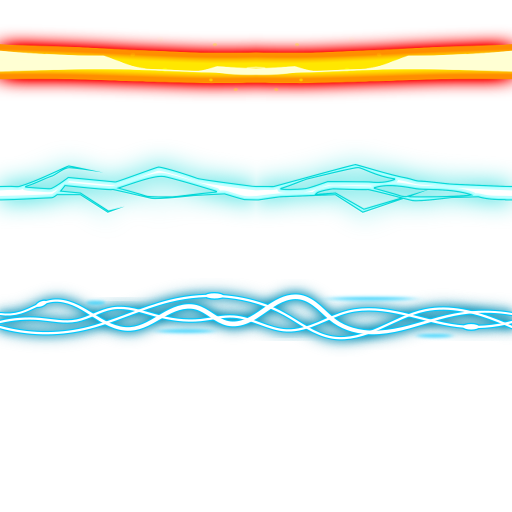
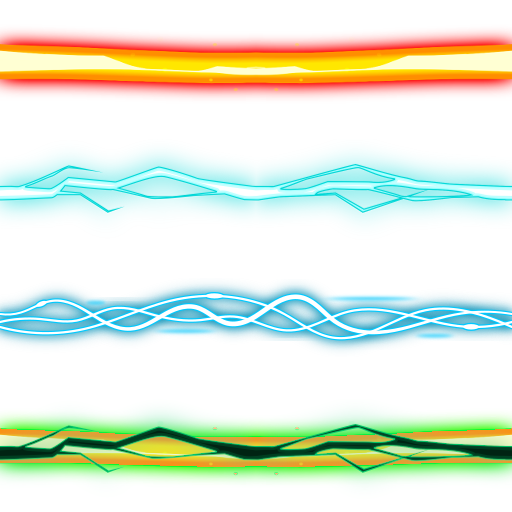
New projectile trace & minor hook physics changes

Changed region(s): [[0.0, 0.8125, 1.0, 0.9375]]

diff --git a/src/game/gamecore.cpp b/src/game/gamecore.cpp
@@ -1036,8 +1036,9 @@ void CCharacterCore::Tick(bool UseInput)
 	{
 		if(distance(m_HookPos, m_Pos) > 52.0f)
 		{
-			vec2 HookVel = normalize(m_HookPos-m_Pos)*m_pWorld->m_Tuning.m_HookDragAccel;
-			vec2 HookImpactVel = normalize(m_Pos-m_HookPos)*m_pWorld->m_Tuning.m_HookDragAccel;
+			float HookForce = (distance(m_HookPos, m_Pos)-64.0f)*0.001f;
+			vec2 HookVel = normalize(m_HookPos-m_Pos)*m_pWorld->m_Tuning.m_HookDragAccel*(1.0f+HookForce);
+			vec2 HookImpactVel = normalize(m_Pos-m_HookPos)*m_pWorld->m_Tuning.m_HookDragAccel*(1.0f+HookForce);
 			// the hook as more power to drag you up then down.
 			// this makes it easier to get on top of an platform
 			if(HookVel.y > 0)
@@ -1112,7 +1113,9 @@ void CCharacterCore::Tick(bool UseInput)
 		// don't do this hook rutine when we are hook to a player or ball
 		if(m_HookState == HOOK_GRABBED && m_HookedPlayer == -1 && distance(m_HookPos, m_Pos) > 52.0f) // tw: 46
 		{
-			vec2 HookVel = normalize(m_HookPos-m_Pos)*m_pWorld->m_Tuning.m_HookDragAccel;
+			float HookForce = (distance(m_HookPos, m_Pos)-64.0f)*0.001f;
+			vec2 HookVel = normalize(m_HookPos-m_Pos)*m_pWorld->m_Tuning.m_HookDragAccel*(1.0f+HookForce);
+			
 			// the hook as more power to drag you up then down.
 			// this makes it easier to get on top of an platform
 			if(HookVel.y > 0)

diff --git a/src/game/client/components/tracer.h b/src/game/client/components/tracer.h
@@ -170,6 +170,19 @@ struct CTrace
 			return;
 		}
 		
+		if (Type == -5)
+		{
+			m_RotSpeed = 2.5f;
+			m_Scale = 2.0f;
+			m_Sprite = 3;
+			m_Color = vec4(1, 1, 1, 1.0f);
+			m_Parts = 30;
+			m_Speed = 3.0f;
+			m_Size1 = 20.0f * GetProjectileSize(Weapon);
+			m_Size2 = 10.0f * GetProjectileSize(Weapon);
+			return;
+		}
+		
 		if (Type == -2)
 		{
 			m_RotSpeed = 0.2f;

diff --git a/src/game/weapons.cpp b/src/game/weapons.cpp
@@ -145,7 +145,7 @@ const int GetProjectileTraceType(int Weapon)
 	if (Part1 == 3) return -3;
 	if (Part1 == 2) return -1;
 	if (Part1 == 1) return 1;
-	if (Part1 == 4) return 2;
+	if (Part1 == 4) return -5;
 	
 	return 1;
 }
